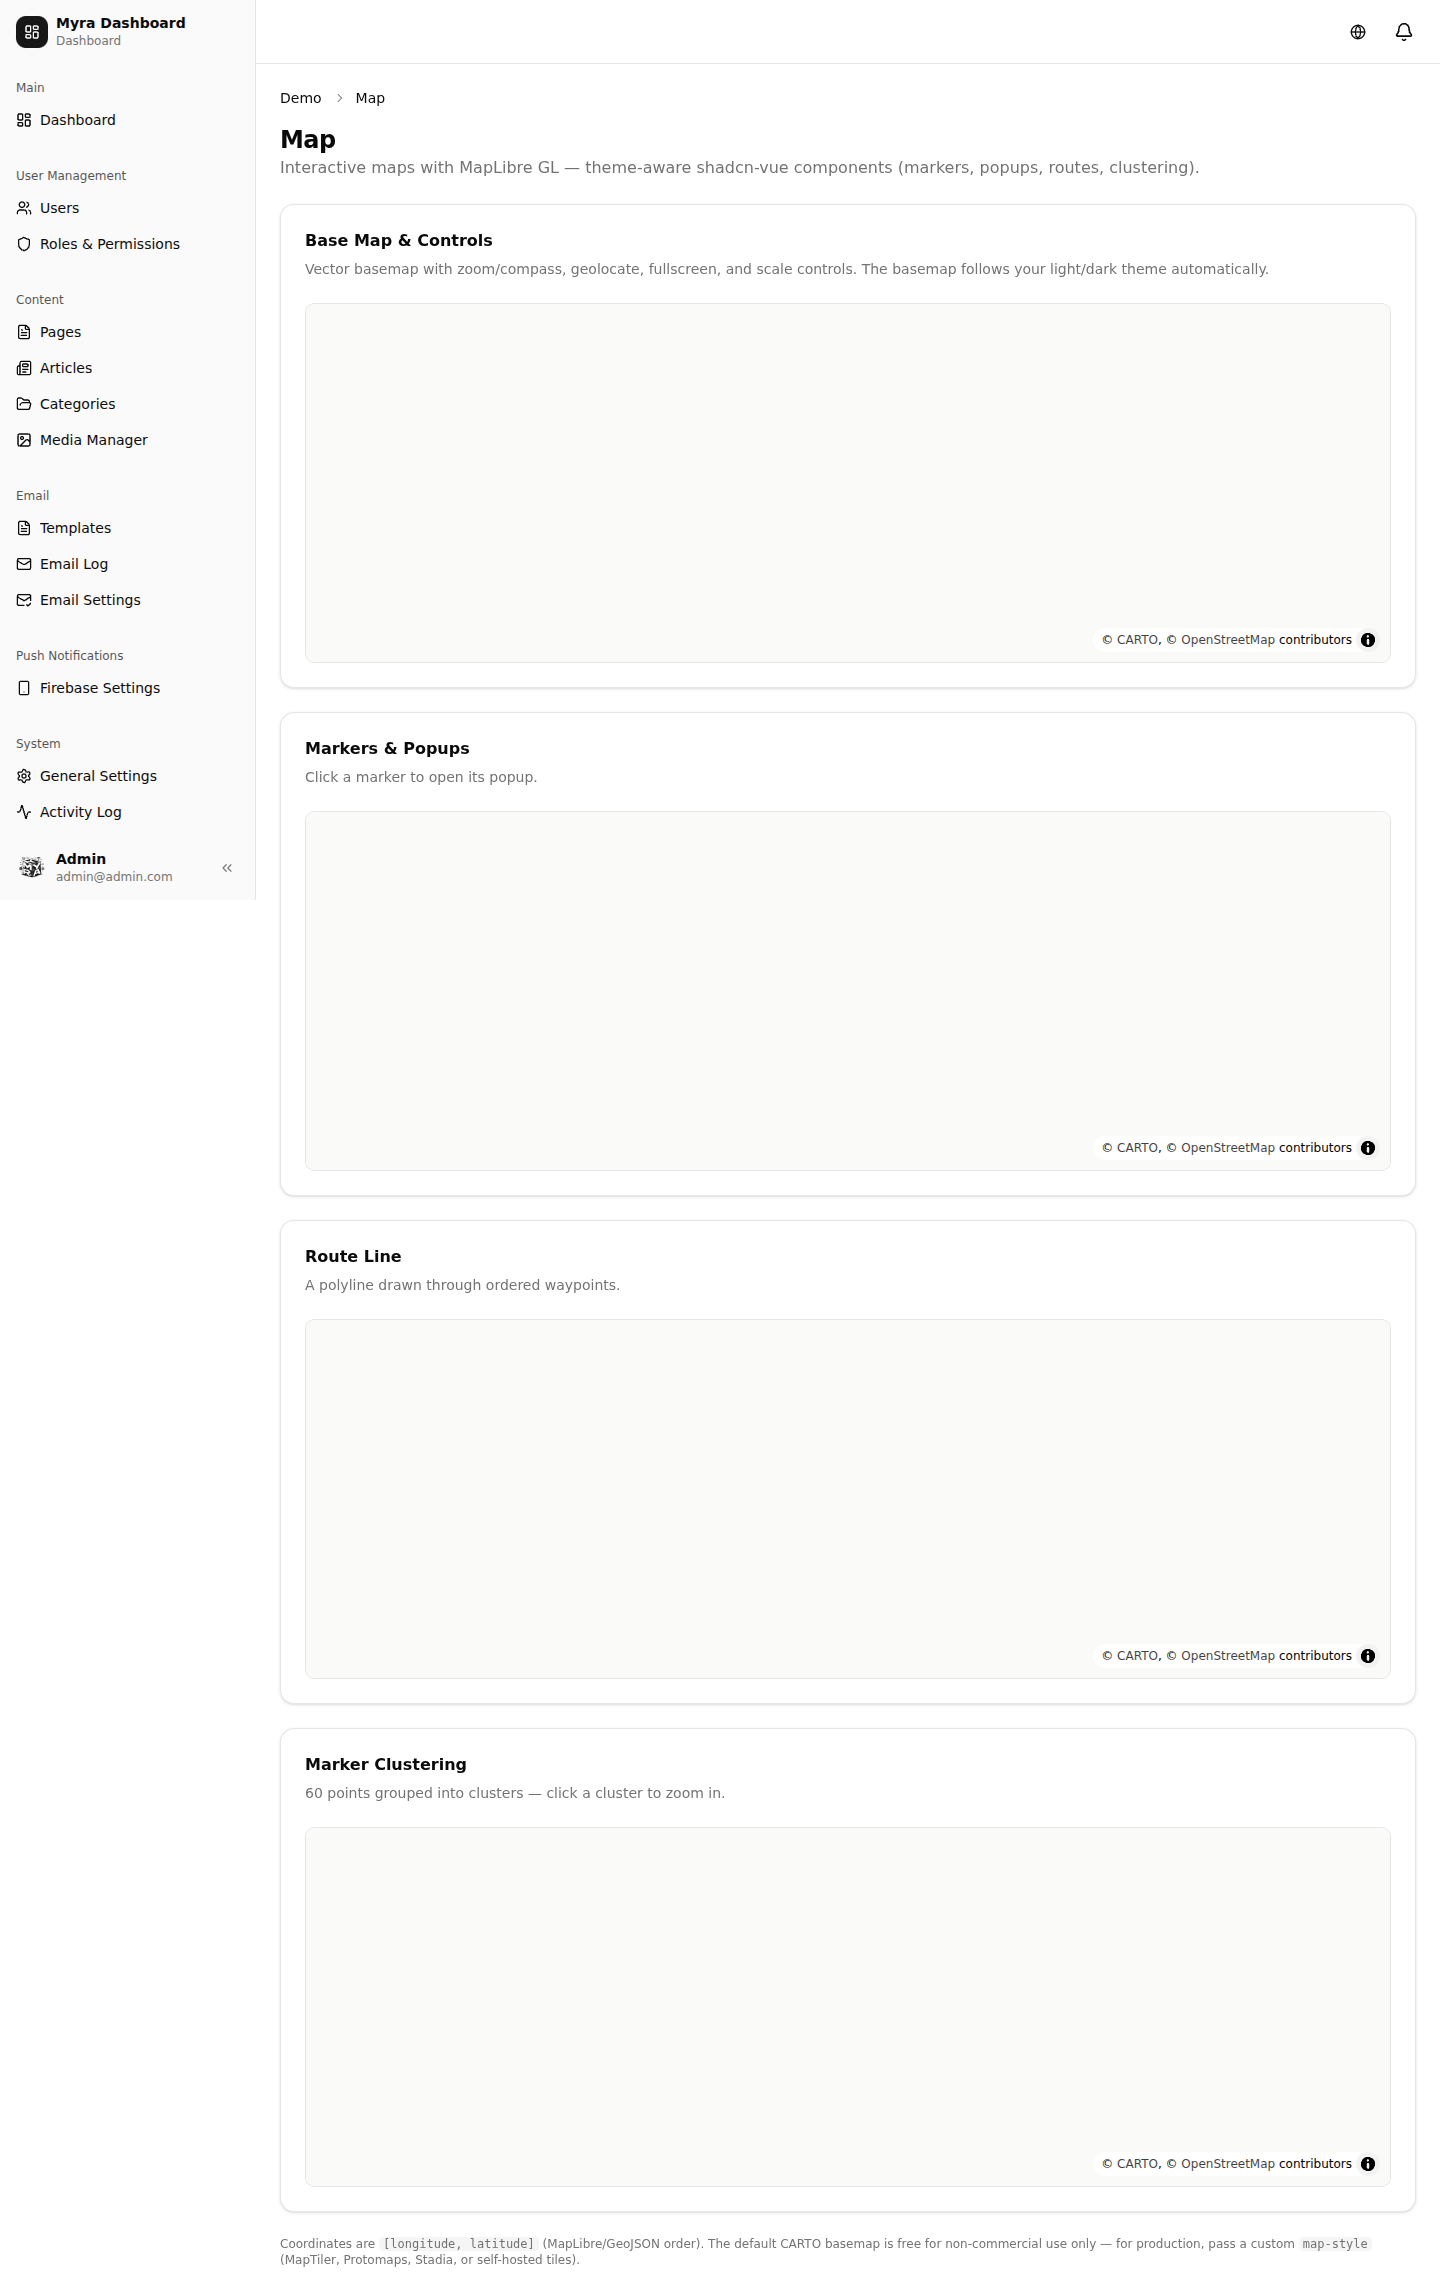
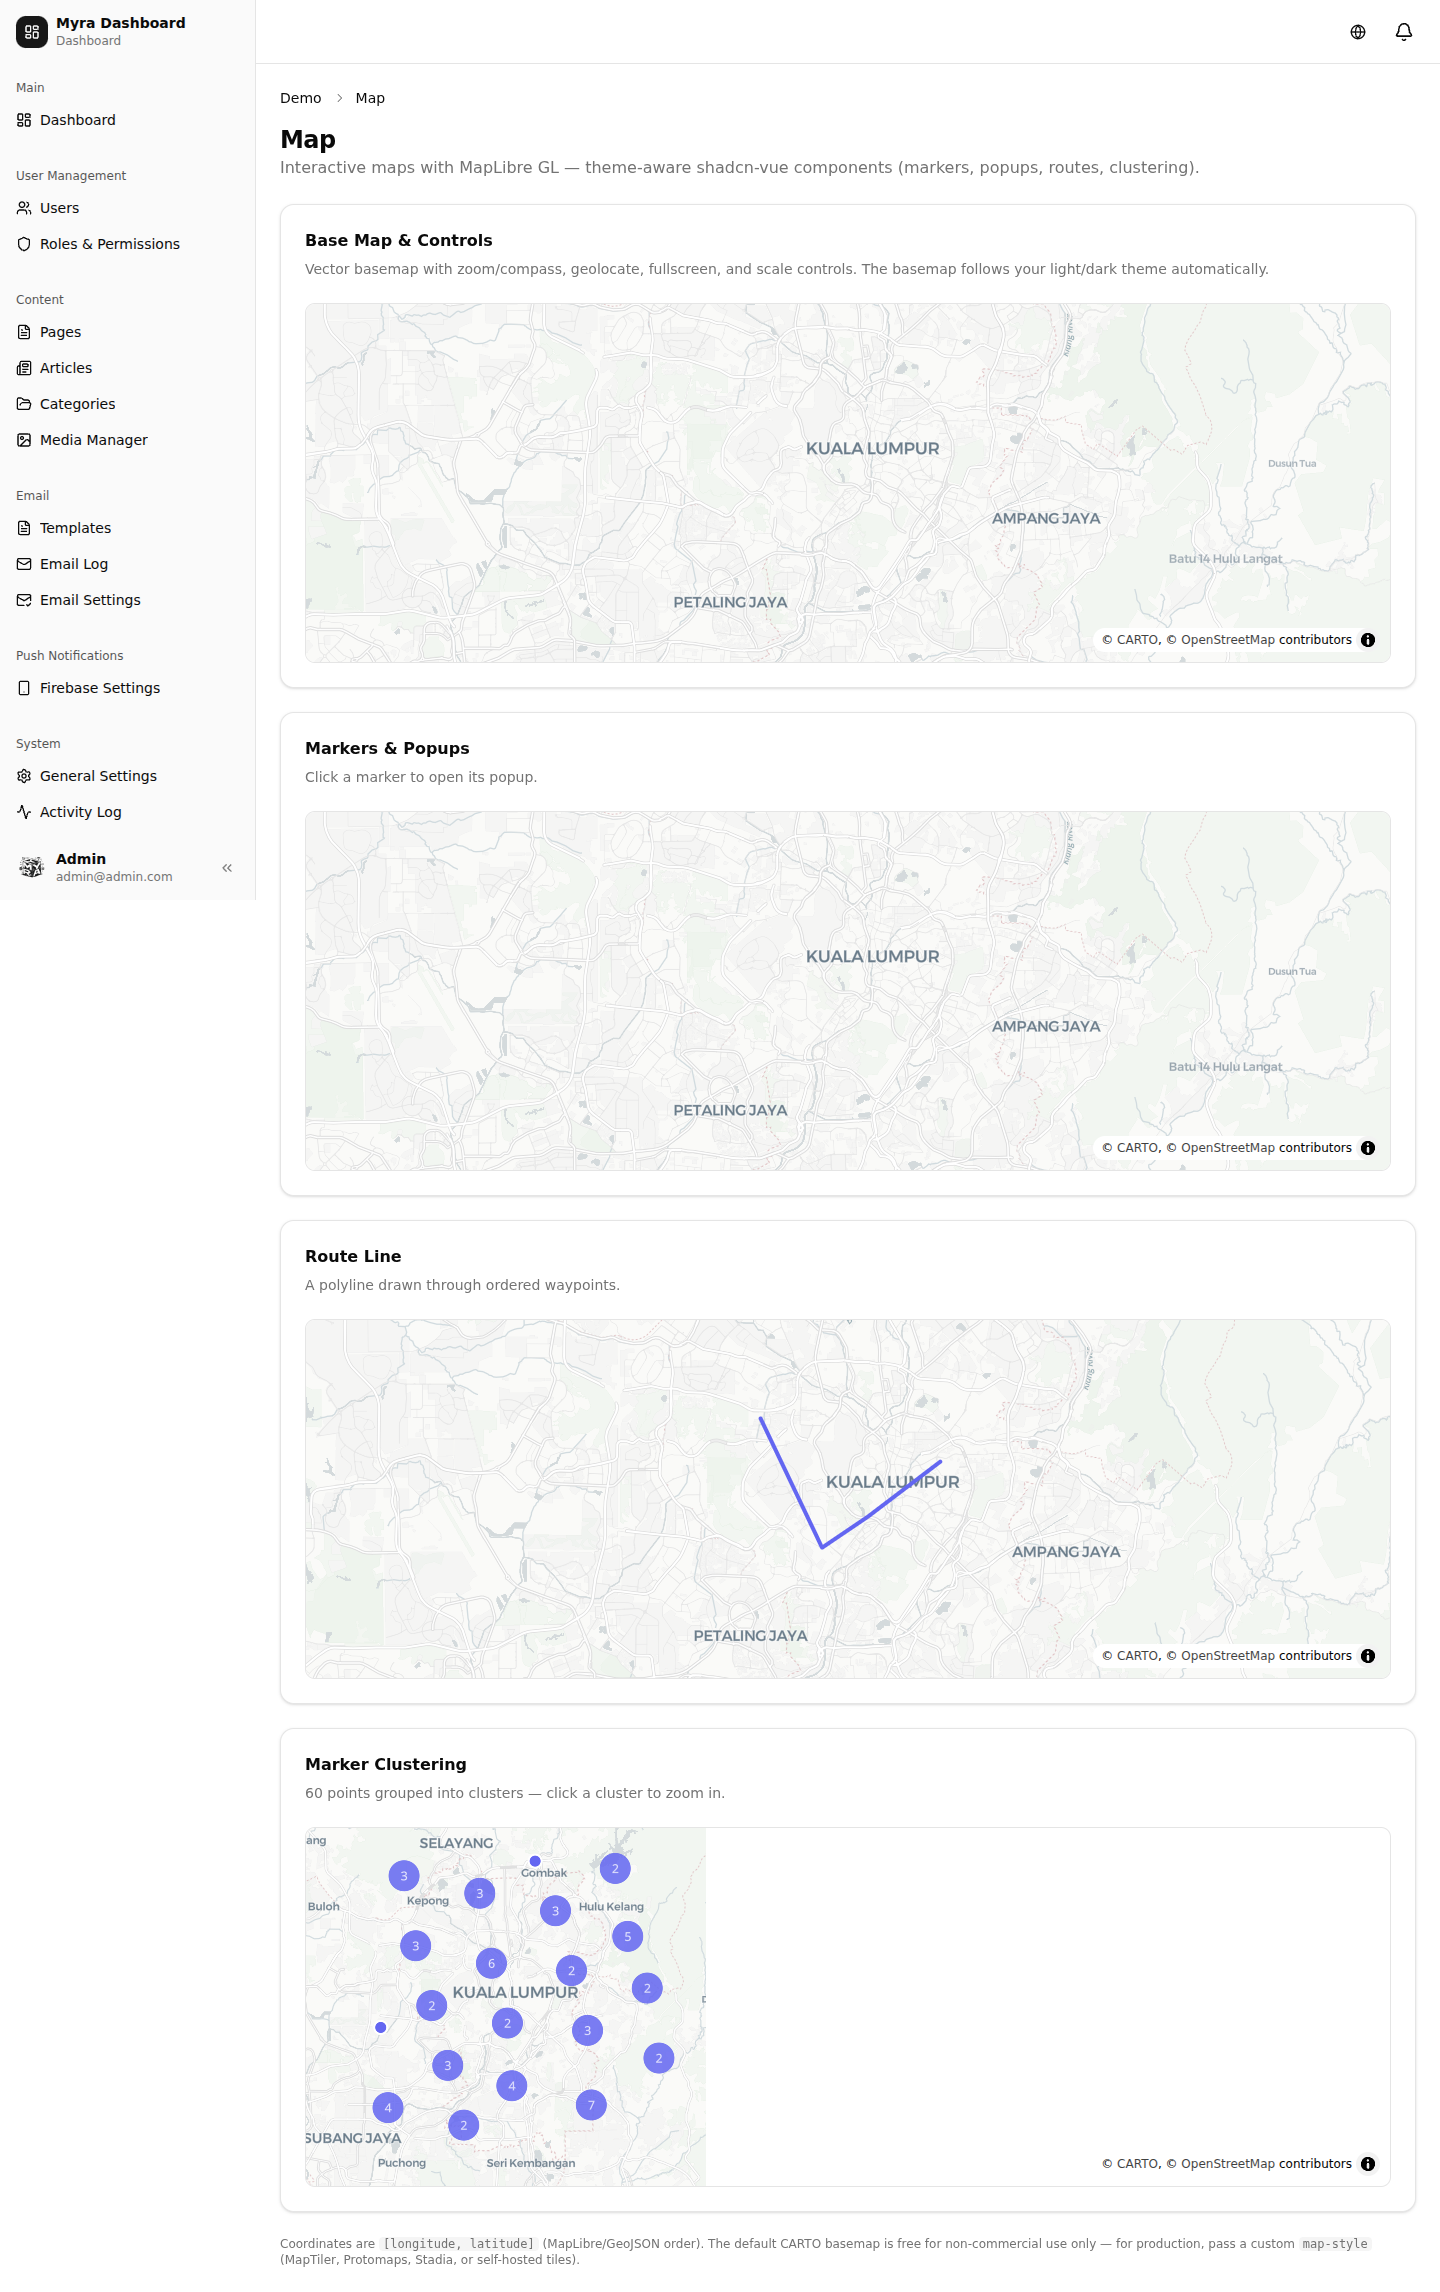
Update map demo screenshot now that tiles render (CSP fix)

diff --git a/public/docs/index.html b/public/docs/index.html
@@ -6436,7 +6436,7 @@ class Project extends Model
     <p>Interactive maps powered by <strong>MapLibre GL JS</strong>, wrapped as shadcn-vue components in <code>resources/js/components/ui/map/</code> (the same copy-paste, project-owned philosophy as mapcn, authored for Vue). The basemap follows the app's light/dark theme automatically.</p>
     <div class="screenshot">
         <img src="screenshots/demo-map.png" alt="Map Demo" loading="lazy">
-        <div class="screenshot-caption">The map demo's four sections — base map + controls, markers + popups, route line, and clustering (live tiles render in-browser)</div>
+        <div class="screenshot-caption">MapLibre map with controls, markers + popups, a route line, and marker clustering</div>
     </div>
     <ul class="inline-list">
         <li><code>Map</code> + <code>MapControls</code> — vector basemap with zoom/compass, geolocate, fullscreen, and scale</li>
